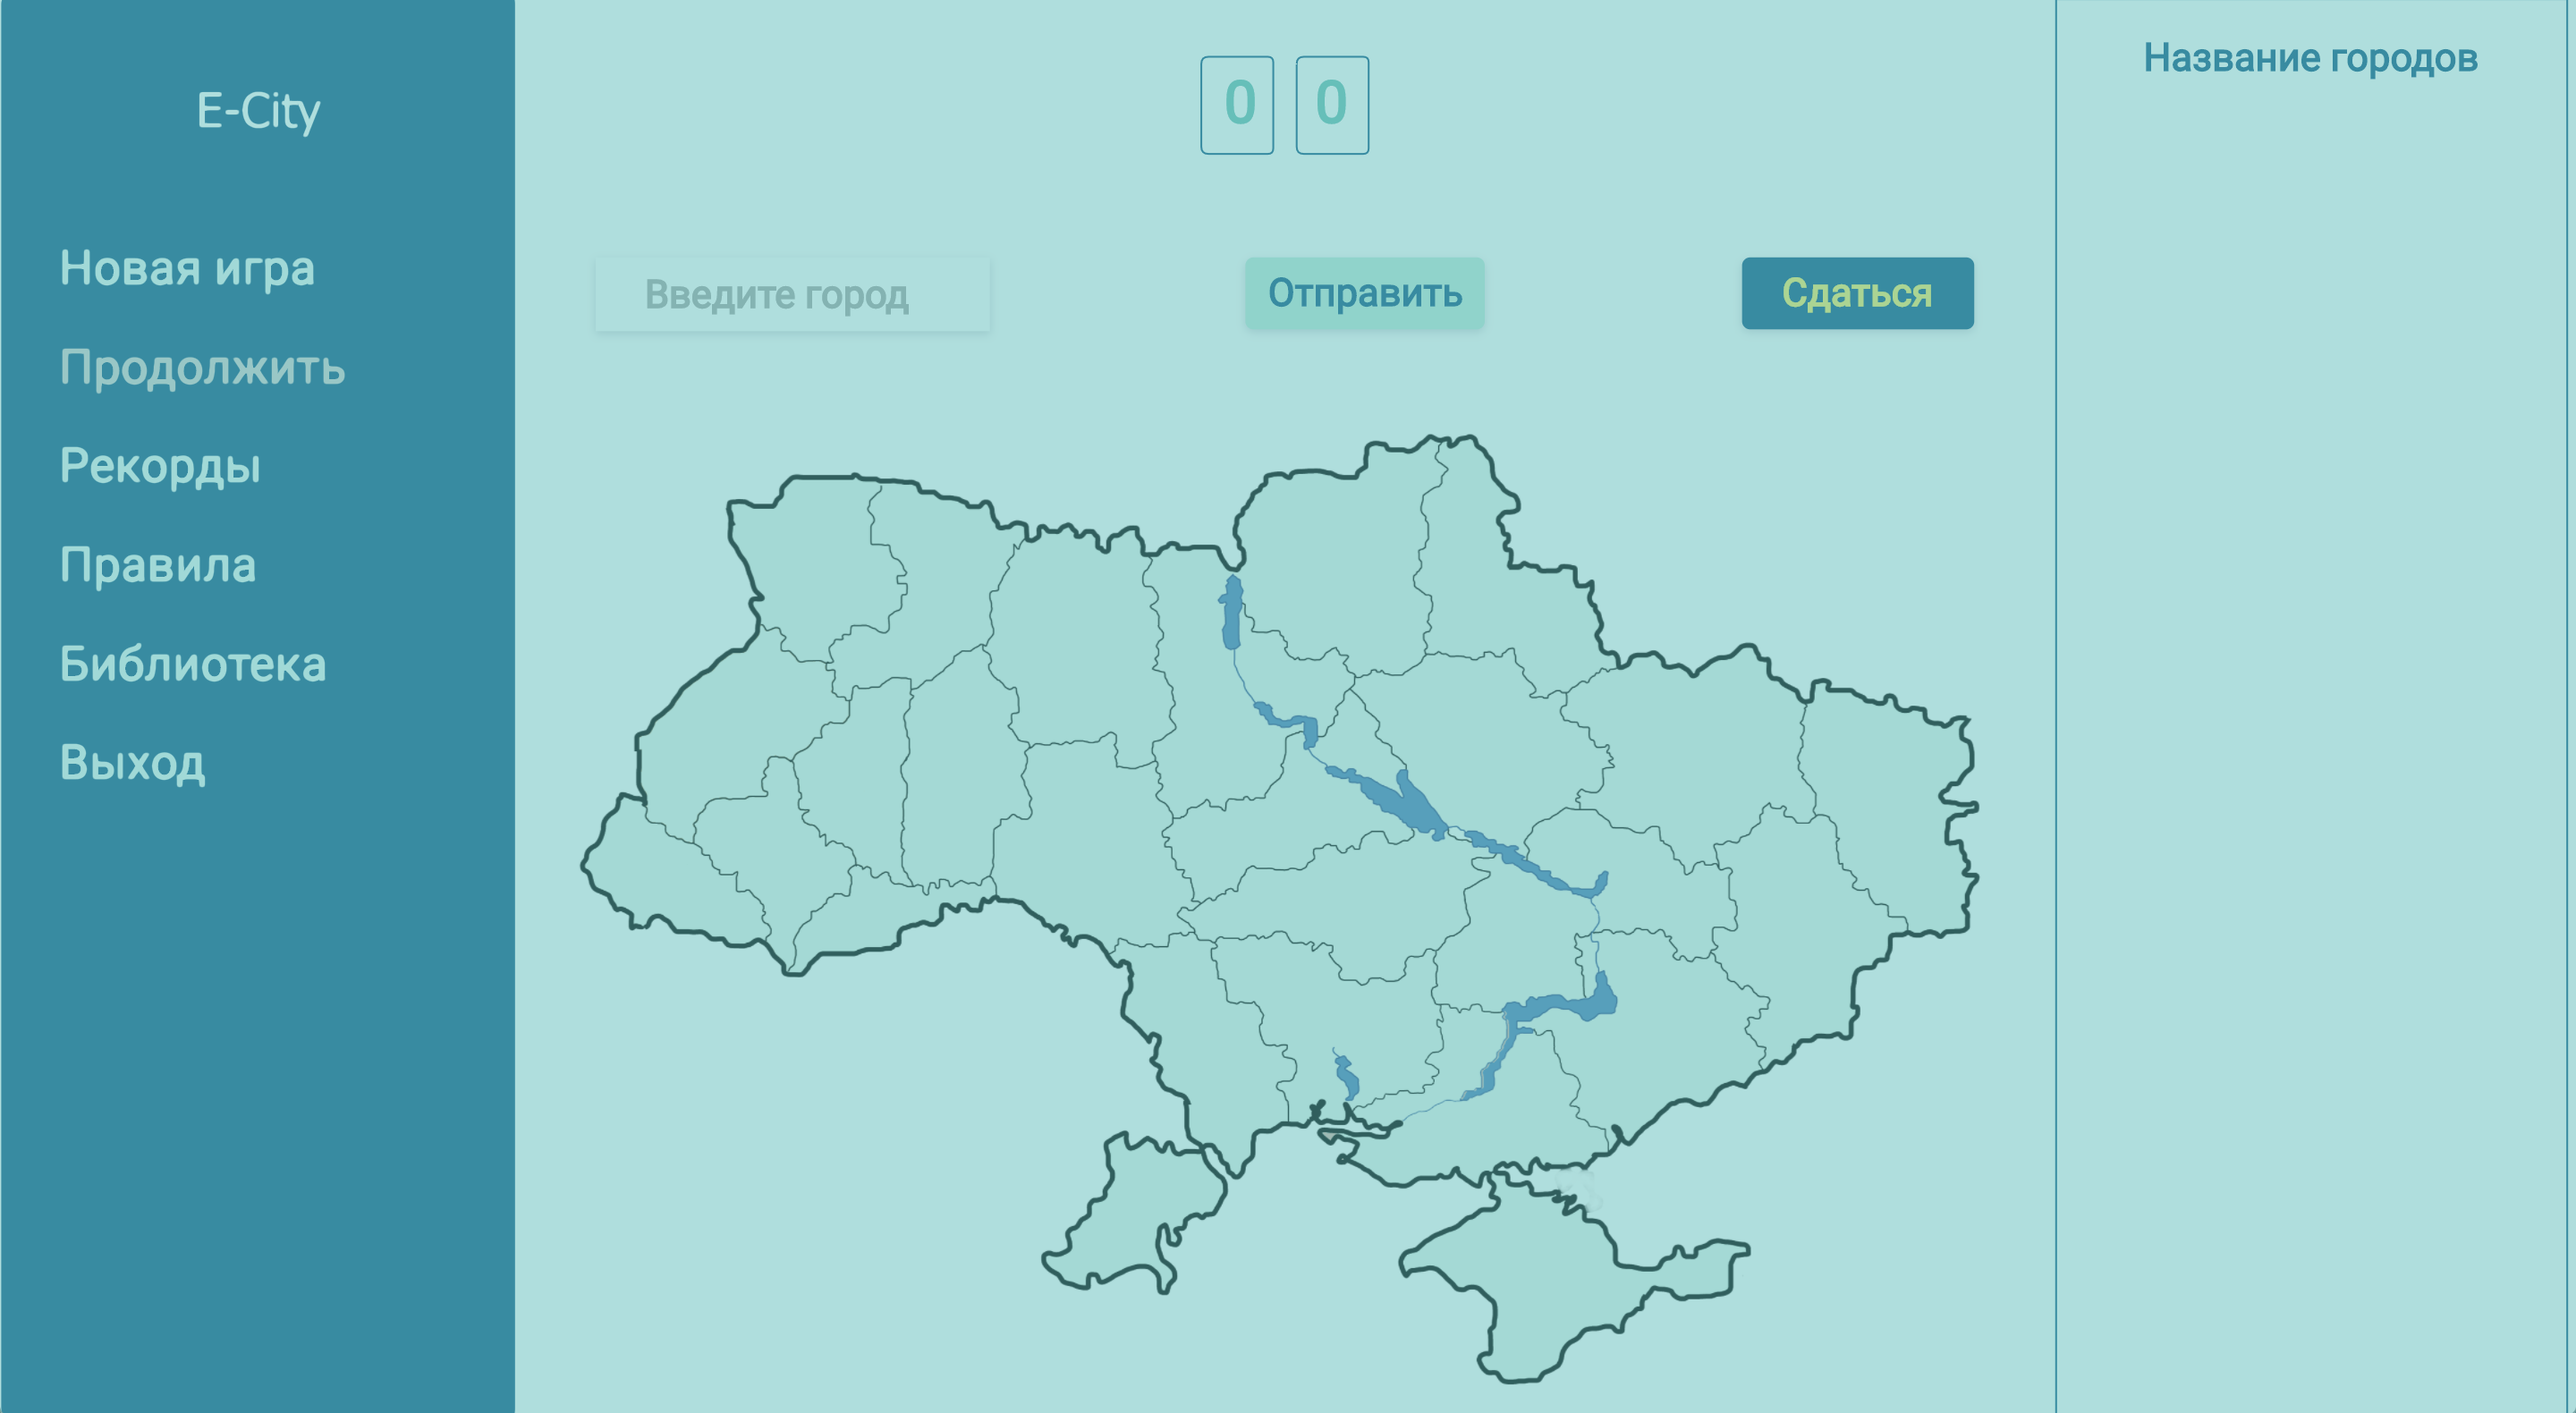
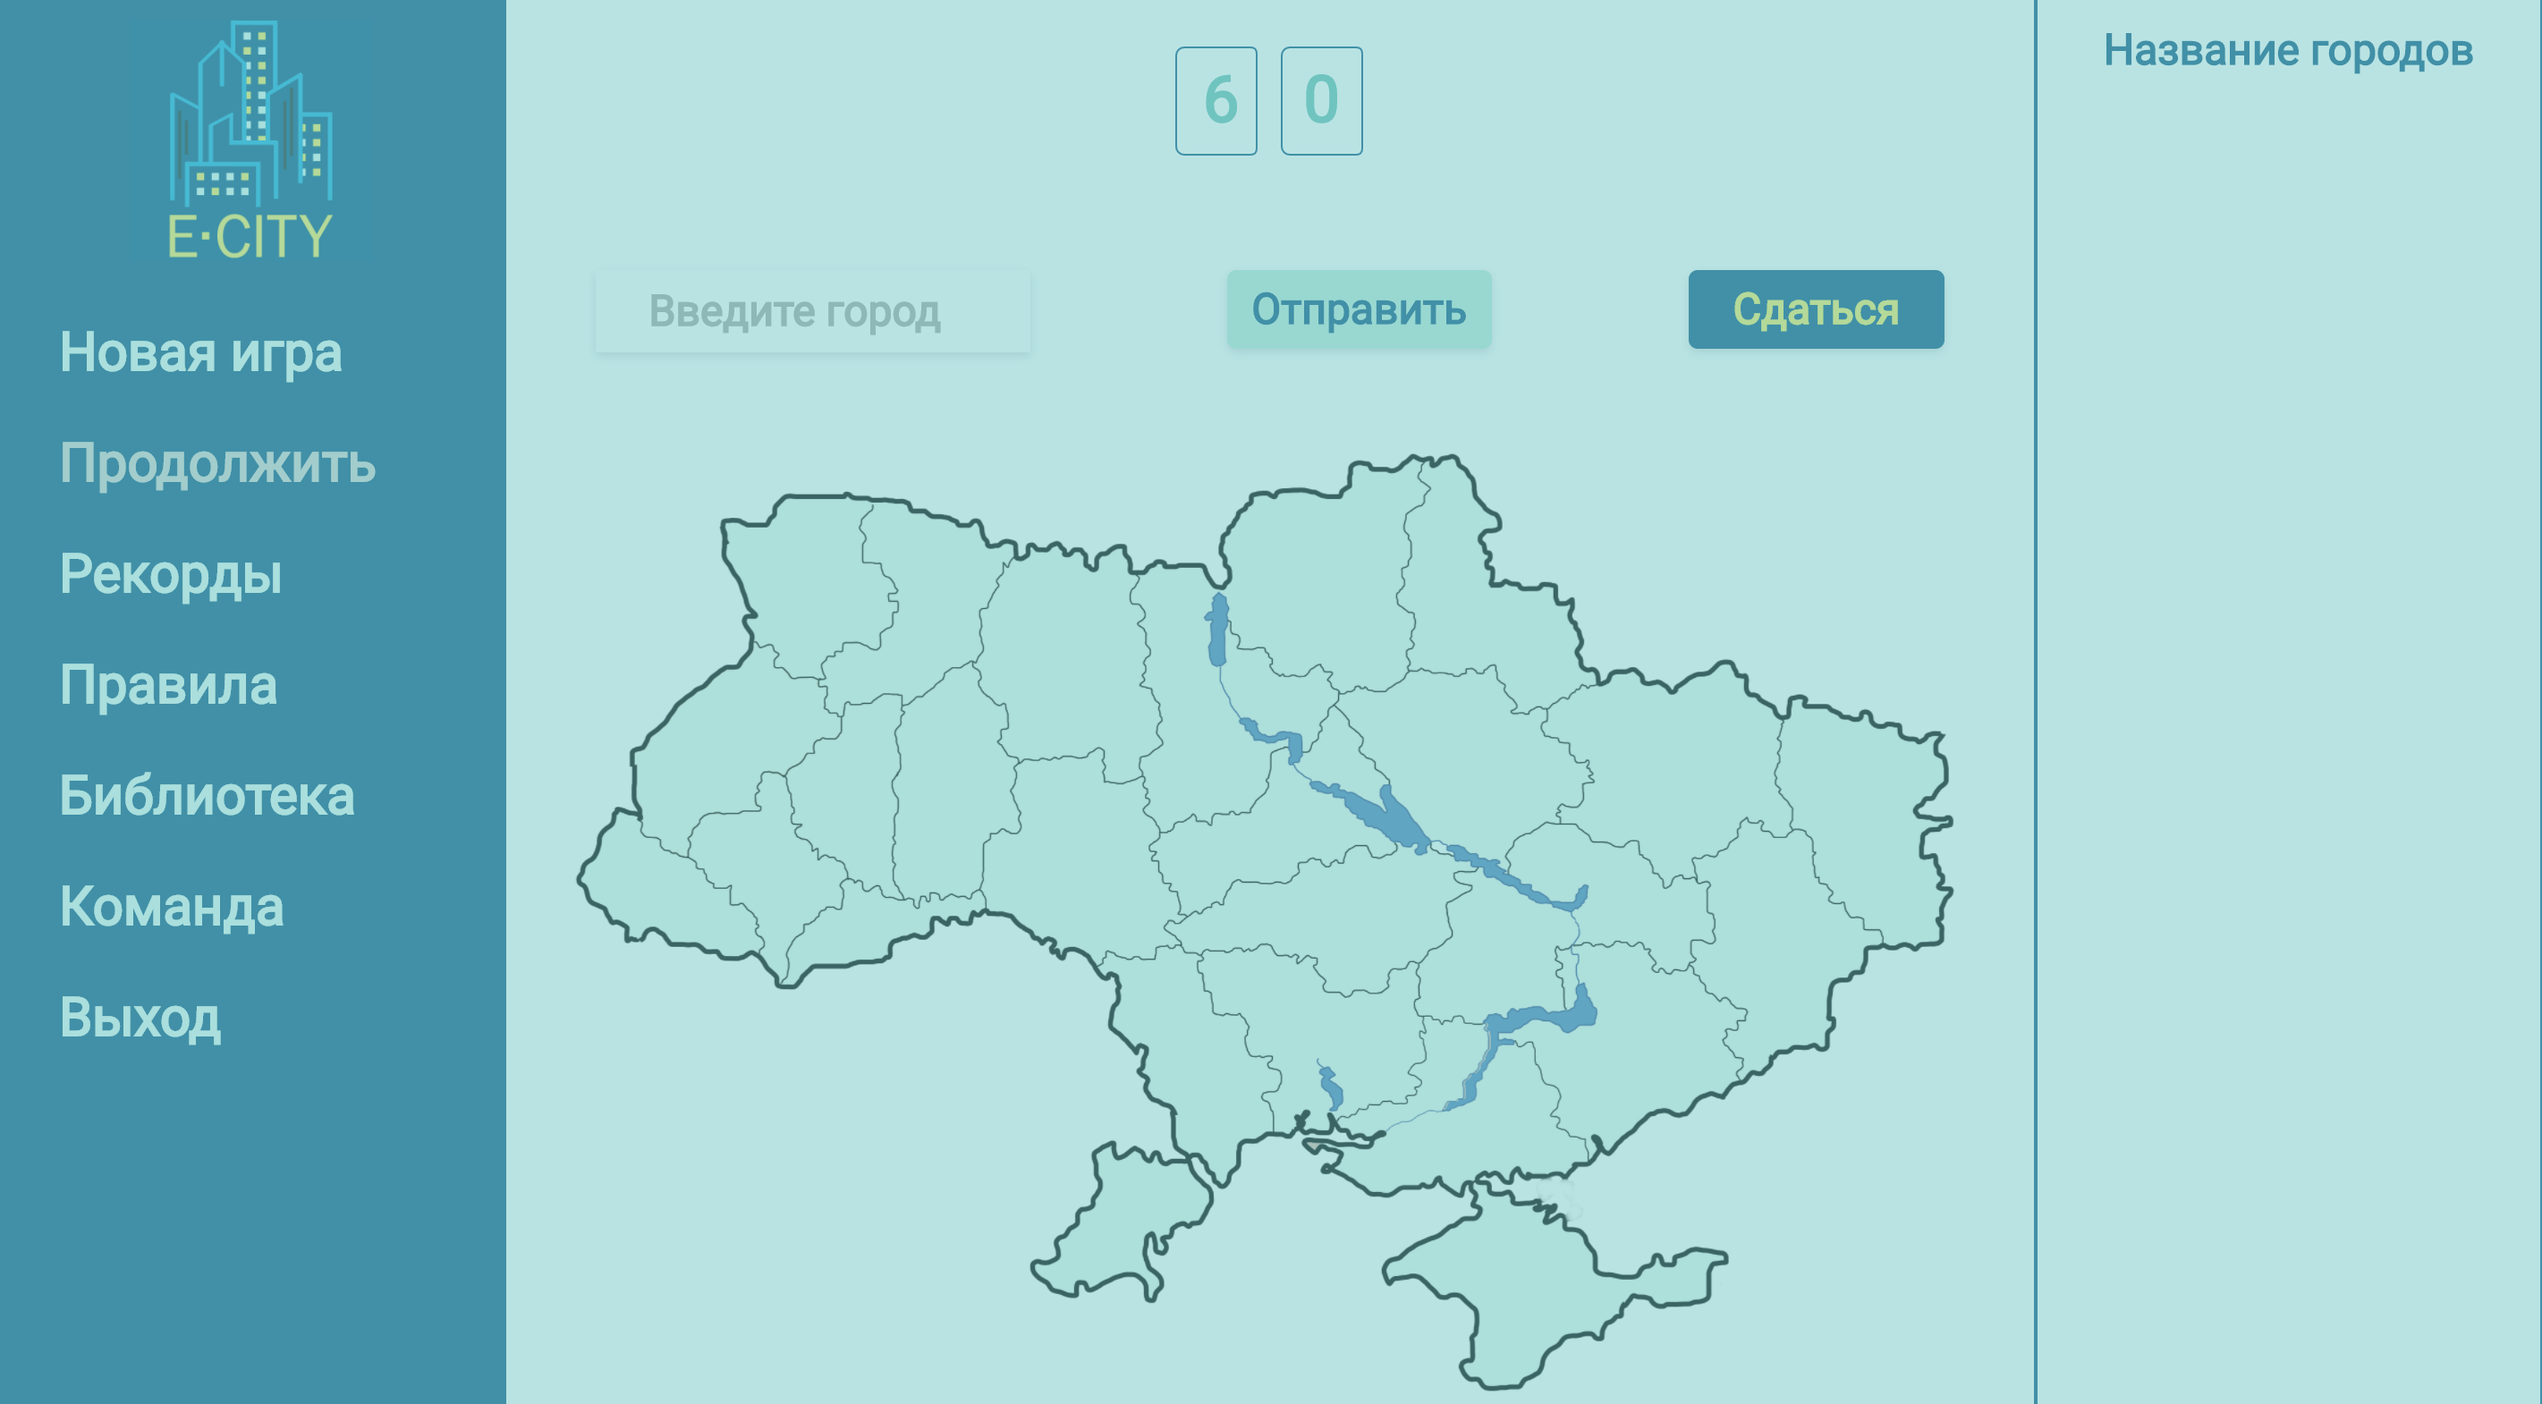
new logotype added

diff --git a/source/scripts/components/side-bar.js b/source/scripts/components/side-bar.js
@@ -5,6 +5,7 @@ const ReactDom = require('react-dom');
 const Superagent = require('superagent');
 const Popup = require('react-popup').default;
 const Settings = require('../settings');
+const Logotype = require('../components/logotype');
 
 const SideBar = React.createClass({
 
@@ -63,10 +64,8 @@ const SideBar = React.createClass({
             });
         } else if (page === "#/e-city"){
             getNewGameId();
-            this.props.game.changeGameWasStarted(false);
         } else {
             location.href=page;
-            this.props.game.changeGameWasStarted(false);
         }
     },
     
@@ -82,9 +81,7 @@ const SideBar = React.createClass({
         
         return (
             <div className="side-bar bg-color">
-                <div className="logo">
-                    <p>E-City</p>
-                </div>
+                <Logotype/>
                 <div>
                     <a className='text-control-color' href='#' onClick={this.onButtonClick.bind(this, popupMessageNewGame, "#/e-city")}>Новая игра</a>
                 </div>
@@ -101,10 +98,10 @@ const SideBar = React.createClass({
                     <a className='text-control-color' href="#" onClick={this.onButtonClick.bind(this, popupMessageOthers, "#/library")}>Библиотека</a>
                 </div>
                 <div>
-                    <a className='text-control-color' href="#" onClick={this.onButtonClick.bind(this,  popupMessageExit, "#/before-start")}>Выход</a>
+                    <a className='text-control-color' href="#" onClick={this.onButtonClick.bind(this, popupMessageOthers, "#/team")}>Команда</a>
                 </div>
                 <div>
-                    <a className='text-control-color' href="#" onClick={this.onButtonClick.bind(this, popupMessageOthers, "#/team")}>Команда</a>
+                    <a className='text-control-color' href="#" onClick={this.onButtonClick.bind(this,  popupMessageExit, "#/before-start")}>Выход</a>
                 </div>
                 <div>
                 </div>

diff --git a/source/scripts/pages/register.js b/source/scripts/pages/register.js
@@ -1,4 +1,4 @@
-define(['react', 'superagent', '../settings'], function (React, Superagent, Settings) {
+define(['react', 'superagent', '../settings', '../components/logotype'], function (React, Superagent, Settings, Logotype) {
 
     return React.createClass({
 
@@ -94,9 +94,7 @@ define(['react', 'superagent', '../settings'], function (React, Superagent, Sett
                         <img src="/img/bg.png" className="bg-layer-1" alt=""/>
                     </div>
                     <div className="register bg-color">
-                        <div className="logo">
-                            <p>E-City</p>
-                        </div>
+                        <Logotype/>
                         <form onSubmit={this.onFormSubmit}>
                             <div>
                                 <input type="text" className='register_input_style' placeholder="Логин" onChange={this.onInputChange.bind(this, 'login')}/>

diff --git a/source/scripts/pages/login.js b/source/scripts/pages/login.js
@@ -1,4 +1,4 @@
-define(['react', 'superagent', '../settings'], function (React, Superagent, Settings) {
+define(['react', 'superagent', '../settings', '../components/logotype'], function (React, Superagent, Settings, Logotype) {
 
     return React.createClass({
 
@@ -66,9 +66,7 @@ console.log('not loged in');
                         <img src="/img/bg.png" className="bg-layer-1" alt=""/>
                     </div>
                     <div className="login bg-color">
-                        <div className="logo">
-                            <p>E-City</p>
-                        </div>
+                        <Logotype/>
                         <form onSubmit={this.onFormSubmit}>
                             <div>
                                 <input type="text" className='login_input_style' placeholder="Логин" onChange={this.onInputChange.bind(this, 'login')}/>

diff --git a/source/scripts/pages/before-start.js b/source/scripts/pages/before-start.js
@@ -1,4 +1,4 @@
-define(['react', 'superagent', '../settings'], function (React, Superagent, Settings) {
+define(['react', 'superagent', '../settings', '../components/logotype'], function (React, Superagent, Settings, Logotype) {
     
     return React.createClass ({
         
@@ -49,9 +49,7 @@ console.log(error);
                             <img src="/img/bg.png" className="bg-layer-1" alt=""/>
                         </div>
                         <div className="before-start bg-color">
-                            <div className="logo">
-                                <p>E-City</p>
-                            </div>
+                            <Logotype/>
                             <div>
                                 <a className='text-control-color' href="#/e-city" onClick={this.onButtonClick}>Новая игра</a>
                             </div>

diff --git a/source/styles/main.css b/source/styles/main.css
@@ -15,6 +15,7 @@
 @import url("./components/page404.css");
 @import url("./components/records-table.css");
 @import url("./components/team.css");
+@import url("./components/logotype.css");
 
 div {
     box-sizing: border-box;
@@ -31,17 +32,6 @@ div {
 }
 .bg-color {
     background-color: #07588a;
-}
-
- .logo p{
-    color: white;
-    font-family: 'Chewy', cursive;
-    font-size: 60px;
-    margin: 0;
-}
-.logo {
-    border-bottom: 2px solid white;
-    border-radius: 9px;
 }
 
 .text-color-yellow {

diff --git a/source/scripts/components/logotype.js b/source/scripts/components/logotype.js
@@ -1,0 +1,17 @@
+define(['react'], function (React) {
+    
+    return React.createClass ({
+        
+        displayName: 'Logotype', 
+        
+        render: function () {
+            return (
+                    <div className="logo">
+                        <input type='image' src='../img/logo.png'/>
+                    </div>
+            );
+        }
+        
+    });
+    
+});

diff --git a/source/styles/components/logotype.css b/source/styles/components/logotype.css
@@ -1,0 +1,10 @@
+.logo input {
+    height: 135px;
+}
+.logo {
+    text-align: center;
+}
+.login .logo,
+.register .logo {
+    padding: 15px 0;
+}

diff --git a/source/styles/components/register.css b/source/styles/components/register.css
@@ -53,4 +53,7 @@
     margin-left: 10px;
     margin-right: 10px;
 }
+.register form {
+    padding-top: 10px;
+}
 
